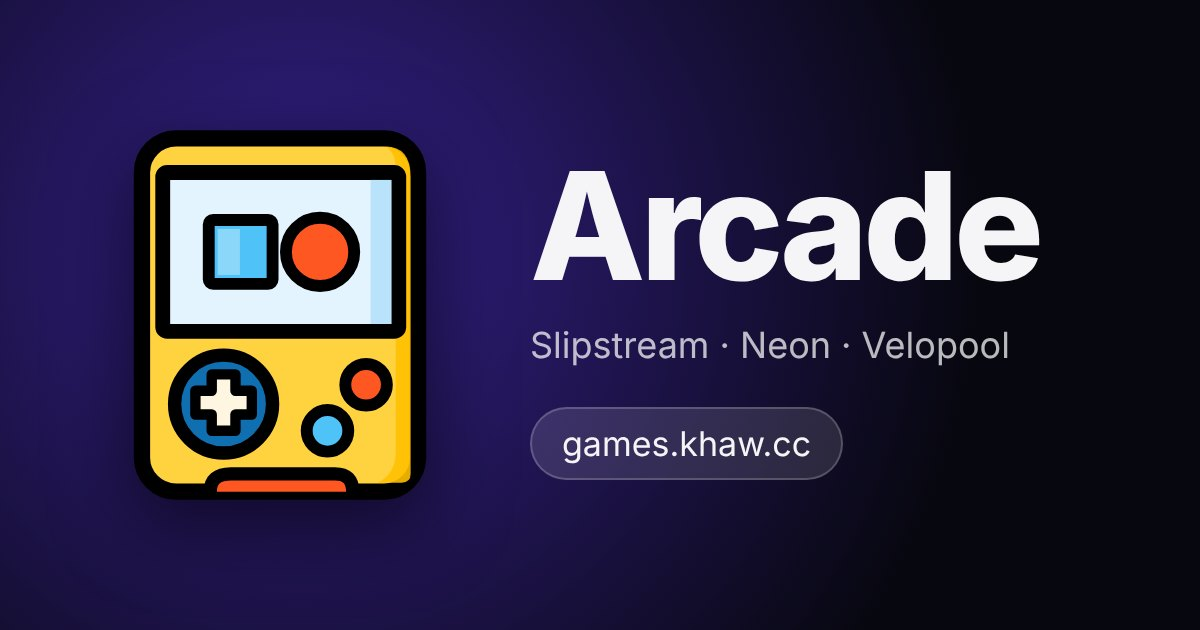
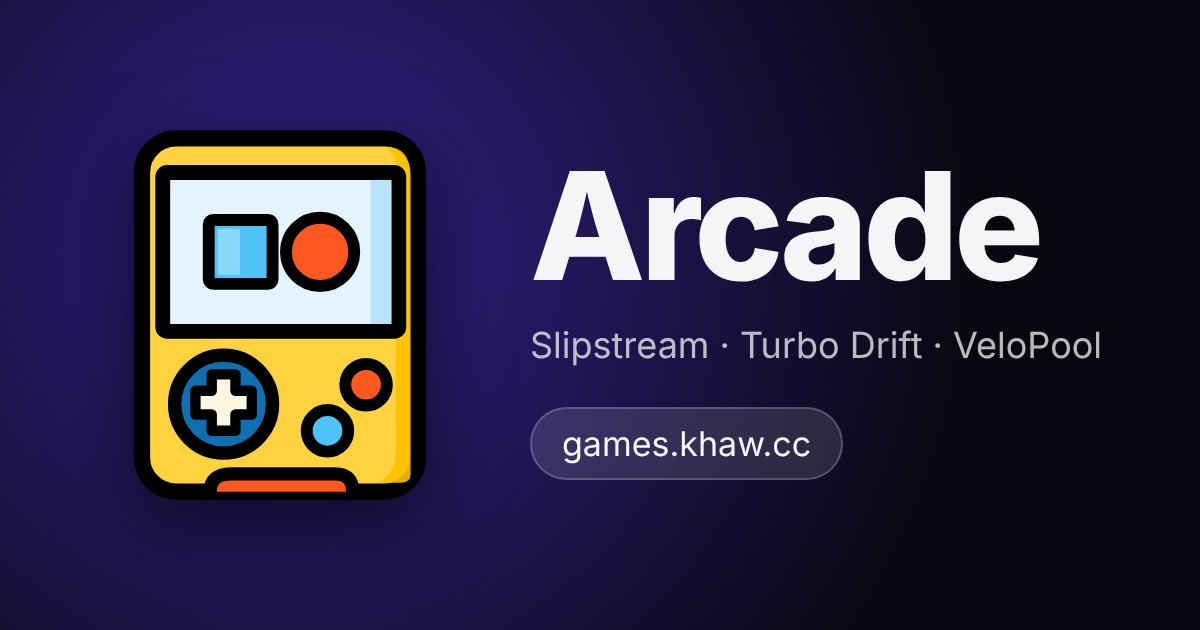
Use the new game names in the share description (#6)
* Add arcade portal with admin CMS, Blob-backed API, and production-only Vercel CI

Claude-Session: https://claude.ai/code/session_01J1t6yAa4thQFrko2NcBCZ1

* Add seed tile artwork for Slipstream, Neon and Velopool

Claude-Session: https://claude.ai/code/session_01J1t6yAa4thQFrko2NcBCZ1

* Add favicon, home-screen icons, web manifest and share-preview metadata

Claude-Session: https://claude.ai/code/session_01J1t6yAa4thQFrko2NcBCZ1

* Fix clipped top of app icon and use a light icon background

Claude-Session: https://claude.ai/code/session_01J1t6yAa4thQFrko2NcBCZ1

* Match portal titles to each game's own title and handle long titles on mobile

Claude-Session: https://claude.ai/code/session_01J1t6yAa4thQFrko2NcBCZ1

* Use the new game names in the share description, title and preview card

Claude-Session: https://claude.ai/code/session_01J1t6yAa4thQFrko2NcBCZ1

---------

Changed region(s): [[0.6167, 0.5127, 0.925, 0.573]]

diff --git a/index.html b/index.html
@@ -4,8 +4,8 @@
     <meta charset="UTF-8" />
     <meta name="viewport" content="width=device-width, initial-scale=1, viewport-fit=cover" />
     <meta name="theme-color" content="#000000" />
-    <title>Arcade — Play Slipstream, Neon &amp; Velopool</title>
-    <meta name="description" content="Free browser games from khaw.cc: race in Slipstream, glow in Neon, sink shots in Velopool. No downloads, just tap and play." />
+    <title>Arcade — Play Slipstream, Turbo Drift &amp; VeloPool</title>
+    <meta name="description" content="Free browser games: Slipstream, Turbo Drift: Neon Circuit and VeloPool. No downloads, just tap and play." />
 
     <link rel="icon" type="image/svg+xml" href="/favicon.svg" />
     <link rel="icon" type="image/png" sizes="48x48" href="/favicon-48.png" />
@@ -20,15 +20,15 @@
     <meta property="og:type" content="website" />
     <meta property="og:site_name" content="Arcade" />
     <meta property="og:url" content="https://games.khaw.cc/" />
-    <meta property="og:title" content="Arcade — Play Slipstream, Neon &amp; Velopool" />
-    <meta property="og:description" content="Free browser games from khaw.cc: race in Slipstream, glow in Neon, sink shots in Velopool. Tap and play." />
+    <meta property="og:title" content="Arcade — Play Slipstream, Turbo Drift &amp; VeloPool" />
+    <meta property="og:description" content="Free browser games: Slipstream, Turbo Drift: Neon Circuit and VeloPool. Tap and play." />
     <meta property="og:image" content="https://games.khaw.cc/og-image.jpg" />
     <meta property="og:image:type" content="image/jpeg" />
     <meta property="og:image:width" content="1200" />
     <meta property="og:image:height" content="630" />
     <meta property="og:image:alt" content="A yellow handheld game console with the text Arcade" />
     <meta name="twitter:card" content="summary_large_image" />
-    <meta name="twitter:title" content="Arcade — Play Slipstream, Neon &amp; Velopool" />
+    <meta name="twitter:title" content="Arcade — Play Slipstream, Turbo Drift &amp; VeloPool" />
     <meta name="twitter:description" content="Free browser games from khaw.cc. Tap and play." />
     <meta name="twitter:image" content="https://games.khaw.cc/og-image.jpg" />
   </head>

diff --git a/art/og.html b/art/og.html
@@ -13,5 +13,5 @@
 <circle cx="320" cy="412" r="28" fill="#4FC3F7" stroke="#000" stroke-width="16"/>
 <path d="M162 494 Q162 470 190 470 L330 470 Q354 470 354 494" fill="#FF5722" stroke="#000" stroke-width="18"/></g></svg>
 <div><div style="font-size:150px;font-weight:800;letter-spacing:-5px;line-height:1">Arcade</div>
-<div style="font-size:36px;margin-top:22px;color:rgba(245,245,247,.75)">Slipstream · Neon · Velopool</div>
+<div style="font-size:36px;margin-top:22px;color:rgba(245,245,247,.75)">Slipstream · Turbo Drift · VeloPool</div>
 <div style="display:inline-block;margin-top:40px;padding:14px 30px;border-radius:999px;background:rgba(255,255,255,.12);border:2px solid rgba(255,255,255,.2);font-size:34px">games.khaw.cc</div></div></body></html>
